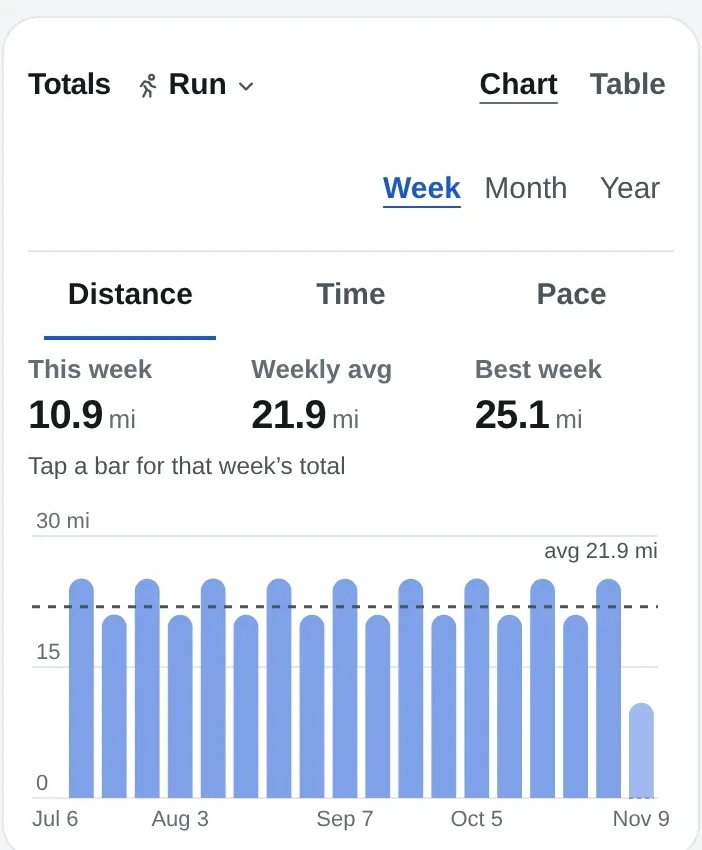
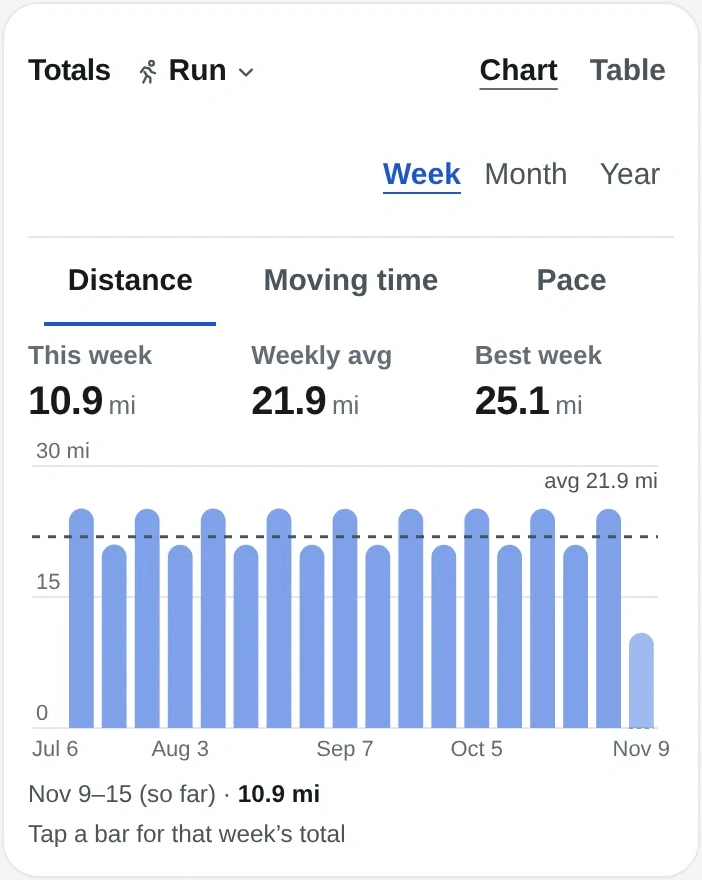
Refresh website Progress crops from the accepted final app capture

diff --git a/site/index.html b/site/index.html
@@ -55,7 +55,7 @@
 <main id="main">
 <section class="tour-hero"><div class="wrap"><span class="eyebrow">One app for your whole training life</span><h1>Track workouts. Log food. See progress.</h1><p class="lede">Log a meal, review a run, or check what you lifted last time. Keep your records together and use the parts that fit your day.</p><a class="btn solid" href="https://login.kinetta.app/signup">Get started</a><div class="tour-access"><a href="https://login.kinetta.app/">Sign in</a><a href="https://testflight.apple.com/join/YAX1JnwB">Install the iPhone beta</a></div><p class="tour-access-note">Account access and iPhone beta installation are separate.</p></div></section>
 <section class="tour-pair"><div class="wrap"><figure><div class="tour-workout"><picture><source srcset="assets/tour/activity-result-dark.png" media="(prefers-color-scheme: dark)"><img src="assets/tour/activity-result-light.png" alt="Fictional Morning Run summary: distance 3.0 miles, elapsed time 25 minutes and pace 8:18 per mile." width="696" height="332"></picture><picture><source srcset="assets/tour/activity-map-dark.png" media="(prefers-color-scheme: dark)"><img src="assets/tour/activity-map-light.png" alt="The same Morning Run route through streets and a park, with OpenStreetMap contributors and Protomaps attribution." width="786" height="786"></picture></div><figcaption><h2>Review a completed workout</h2><p>Review recorded routes, distance, elapsed time and pace.</p><a class="tour-link" href="training">Explore Training →</a></figcaption></figure><figure><div class="tour-image"><picture><source srcset="assets/tour/food-day-dark.webp" media="(prefers-color-scheme: dark)"><img src="assets/tour/food-day-light.webp" alt="Fictional logged food day showing daily totals and a complete Breakfast list of foods and amounts." width="730" height="915" fetchpriority="high"></picture></div><figcaption><h2>Keep a clear food log</h2><p>Review daily totals and every food and amount in Breakfast.</p><a class="tour-link" href="food">Explore Food →</a></figcaption></figure></div></section>
-<section class="tour-band"><div class="wrap tour-split"><div><span class="eyebrow">Then see progress</span><h2>Make the week easy to revisit.</h2><p class="lede">Put weekly running beside recent weeks, then look across months and years.</p><a class="tour-link" href="guide#task-week">Revisit a training week →</a></div><figure><div class="tour-image"><picture><source srcset="assets/tour/progress-week-dark.webp" media="(prefers-color-scheme: dark)"><img src="assets/tour/progress-week-light.webp" alt="Fictional weekly running totals and dated distance history chart, with Week, Month and Year views." width="702" height="850" loading="lazy"></picture></div><figcaption>Weekly running distance, with month and year views.</figcaption></figure></div></section>
+<section class="tour-band"><div class="wrap tour-split"><div><span class="eyebrow">Then see progress</span><h2>Make the week easy to revisit.</h2><p class="lede">Put weekly running beside recent weeks, then look across months and years.</p><a class="tour-link" href="guide#task-week">Revisit a training week →</a></div><figure><div class="tour-image"><picture><source srcset="assets/tour/progress-week-dark.webp" media="(prefers-color-scheme: dark)"><img src="assets/tour/progress-week-light.webp" alt="Fictional weekly running totals and dated distance history chart, with Week, Month and Year views." width="702" height="880" loading="lazy"></picture></div><figcaption>Weekly running distance, with month and year views.</figcaption></figure></div></section>
 <section class="tour-band"><div class="wrap tour-split"><div><span class="eyebrow">Optional sharing</span><h2>Friends, on your terms.</h2><p class="lede">View workouts your friends chose to share. Your own history stays useful on its own.</p><a class="tour-link" href="friends">Explore Friends →</a></div><figure><div class="tour-image"><picture><source srcset="assets/tour/friends-route-dark.webp" media="(prefers-color-scheme: dark)"><img src="assets/tour/friends-route-light.webp" alt="Fictional friend-shared Night Ride with its recorded route and ride details." width="700" height="760" loading="lazy"></picture></div><figcaption>A shared Night Ride includes its route and recorded details.</figcaption></figure></div></section>
 <section class="tour-trust" aria-label="Sharing and service details"><div class="wrap"><ul><li><a href="privacy">Choose who sees your workouts</a></li><li>Export your data.</li><li>No ads.</li></ul></div></section>
 <section class="tour-final"><div class="wrap"><h2>Start with the records that matter to you.</h2><a class="btn solid" href="https://login.kinetta.app/signup">Get started</a></div></section>

diff --git a/site/compare.html b/site/compare.html
@@ -57,7 +57,7 @@
   <section class="tour-features"><div class="wrap"><article class="tour-row"><div><span class="eyebrow">Training</span><h2>Review a completed workout.</h2><p class="lede">See the route, distance, elapsed time and pace recorded with this activity.</p><a class="tour-link" href="training">Explore Training →</a></div><figure><div class="tour-workout"><picture><source srcset="assets/tour/activity-result-dark.png" media="(prefers-color-scheme: dark)"><img src="assets/tour/activity-result-light.png" alt="Fictional Morning Run summary: distance 3.0 miles, elapsed time 25 minutes and pace 8:18 per mile." width="696" height="332"></picture><picture><source srcset="assets/tour/activity-map-dark.png" media="(prefers-color-scheme: dark)"><img src="assets/tour/activity-map-light.png" alt="The same Morning Run route through streets and a park, with OpenStreetMap contributors and Protomaps attribution." width="786" height="786"></picture></div><figcaption>A route belongs to the activity that recorded it.</figcaption></figure></article>
 <article class="tour-row"><div><span class="eyebrow">Lifting</span><h2>Log a set as you go.</h2><p class="lede">Check the previous load and reps, record a set and mark it complete before moving on.</p><a class="tour-link" href="guide#task-lifting">Learn about lifting →</a></div><figure><div class="tour-image"><picture><source srcset="assets/tour/lifting-session-dark.webp" media="(prefers-color-scheme: dark)"><img src="assets/tour/lifting-session-light.webp" alt="Fictional squat session showing previous load and reps beside completed sets, including 205 pounds for five reps." width="698" height="800" loading="lazy"></picture></div><figcaption>Squat · completed sets beside previous load and reps.</figcaption></figure></article>
 <article class="tour-row"><div><span class="eyebrow">Food</span><h2>Keep foods and amounts together.</h2><p class="lede">Read the logged foods in a meal beside your totals for the day.</p><a class="tour-link" href="food">Explore Food →</a></div><figure><div class="tour-image"><picture><source srcset="assets/tour/food-day-dark.webp" media="(prefers-color-scheme: dark)"><img src="assets/tour/food-day-light.webp" alt="Fictional logged food day showing daily totals and a complete Breakfast list of foods and amounts." width="730" height="915" fetchpriority="high"></picture></div><figcaption>Daily totals above an itemized Breakfast.</figcaption></figure></article>
-<article class="tour-row"><div><span class="eyebrow">Progress</span><h2>Revisit recent training.</h2><p class="lede">Compare recorded distance across dated weeks, months and years.</p><a class="tour-link" href="guide#task-week">Explore Progress →</a></div><figure><div class="tour-image"><picture><source srcset="assets/tour/progress-week-dark.webp" media="(prefers-color-scheme: dark)"><img src="assets/tour/progress-week-light.webp" alt="Fictional weekly running totals and dated distance history chart, with Week, Month and Year views." width="702" height="850" loading="lazy"></picture></div><figcaption>Weekly running distance, with month and year views.</figcaption></figure></article>
+<article class="tour-row"><div><span class="eyebrow">Progress</span><h2>Revisit recent training.</h2><p class="lede">Compare recorded distance across dated weeks, months and years.</p><a class="tour-link" href="guide#task-week">Explore Progress →</a></div><figure><div class="tour-image"><picture><source srcset="assets/tour/progress-week-dark.webp" media="(prefers-color-scheme: dark)"><img src="assets/tour/progress-week-light.webp" alt="Fictional weekly running totals and dated distance history chart, with Week, Month and Year views." width="702" height="880" loading="lazy"></picture></div><figcaption>Weekly running distance, with month and year views.</figcaption></figure></article>
 <article class="tour-row"><div><span class="eyebrow">Optional sharing</span><h2>Choose who sees your workouts.</h2><p class="lede">A friend-shared activity can include its route and the details its owner chose to share.</p><a class="tour-link" href="friends">Explore Friends →</a></div><figure><div class="tour-image"><picture><source srcset="assets/tour/friends-route-dark.webp" media="(prefers-color-scheme: dark)"><img src="assets/tour/friends-route-light.webp" alt="Fictional friend-shared Night Ride with its recorded route and ride details." width="700" height="760" loading="lazy"></picture></div><figcaption>A shared Night Ride with its recorded details.</figcaption></figure></article></div></section>
   <section class="band" aria-label="Feature reference"><div class="wrap"><h2>Feature reference</h2></div></section>
   <section class="band" aria-label="Feature by feature">

diff --git a/site/templates/compare.html b/site/templates/compare.html
@@ -57,7 +57,7 @@
   <section class="tour-features"><div class="wrap"><article class="tour-row"><div><span class="eyebrow">Training</span><h2>{{copy:tour-training-heading}}</h2><p class="lede">{{copy:tour-training-description}}</p><a class="tour-link" href="training">Explore Training →</a></div><figure><div class="tour-workout"><picture><source srcset="assets/tour/activity-result-dark.png" media="(prefers-color-scheme: dark)"><img src="assets/tour/activity-result-light.png" alt="Fictional Morning Run summary: distance 3.0 miles, elapsed time 25 minutes and pace 8:18 per mile." width="696" height="332"></picture><picture><source srcset="assets/tour/activity-map-dark.png" media="(prefers-color-scheme: dark)"><img src="assets/tour/activity-map-light.png" alt="The same Morning Run route through streets and a park, with OpenStreetMap contributors and Protomaps attribution." width="786" height="786"></picture></div><figcaption>A route belongs to the activity that recorded it.</figcaption></figure></article>
 <article class="tour-row"><div><span class="eyebrow">Lifting</span><h2>{{copy:tour-lifting-heading}}</h2><p class="lede">{{copy:tour-lifting-description}}</p><a class="tour-link" href="guide#task-lifting">Learn about lifting →</a></div><figure><div class="tour-image"><picture><source srcset="assets/tour/lifting-session-dark.webp" media="(prefers-color-scheme: dark)"><img src="assets/tour/lifting-session-light.webp" alt="Fictional squat session showing previous load and reps beside completed sets, including 205 pounds for five reps." width="698" height="800" loading="lazy"></picture></div><figcaption>Squat · completed sets beside previous load and reps.</figcaption></figure></article>
 <article class="tour-row"><div><span class="eyebrow">Food</span><h2>{{copy:tour-food-heading}}</h2><p class="lede">{{copy:tour-food-description}}</p><a class="tour-link" href="food">Explore Food →</a></div><figure><div class="tour-image"><picture><source srcset="assets/tour/food-day-dark.webp" media="(prefers-color-scheme: dark)"><img src="assets/tour/food-day-light.webp" alt="Fictional logged food day showing daily totals and a complete Breakfast list of foods and amounts." width="730" height="915" fetchpriority="high"></picture></div><figcaption>Daily totals above an itemized Breakfast.</figcaption></figure></article>
-<article class="tour-row"><div><span class="eyebrow">Progress</span><h2>{{copy:tour-progress-heading}}</h2><p class="lede">{{copy:tour-progress-description}}</p><a class="tour-link" href="guide#task-week">Explore Progress →</a></div><figure><div class="tour-image"><picture><source srcset="assets/tour/progress-week-dark.webp" media="(prefers-color-scheme: dark)"><img src="assets/tour/progress-week-light.webp" alt="Fictional weekly running totals and dated distance history chart, with Week, Month and Year views." width="702" height="850" loading="lazy"></picture></div><figcaption>Weekly running distance, with month and year views.</figcaption></figure></article>
+<article class="tour-row"><div><span class="eyebrow">Progress</span><h2>{{copy:tour-progress-heading}}</h2><p class="lede">{{copy:tour-progress-description}}</p><a class="tour-link" href="guide#task-week">Explore Progress →</a></div><figure><div class="tour-image"><picture><source srcset="assets/tour/progress-week-dark.webp" media="(prefers-color-scheme: dark)"><img src="assets/tour/progress-week-light.webp" alt="Fictional weekly running totals and dated distance history chart, with Week, Month and Year views." width="702" height="880" loading="lazy"></picture></div><figcaption>Weekly running distance, with month and year views.</figcaption></figure></article>
 <article class="tour-row"><div><span class="eyebrow">Optional sharing</span><h2>{{copy:tour-sharing-heading}}</h2><p class="lede">{{copy:tour-sharing-description}}</p><a class="tour-link" href="friends">Explore Friends →</a></div><figure><div class="tour-image"><picture><source srcset="assets/tour/friends-route-dark.webp" media="(prefers-color-scheme: dark)"><img src="assets/tour/friends-route-light.webp" alt="Fictional friend-shared Night Ride with its recorded route and ride details." width="700" height="760" loading="lazy"></picture></div><figcaption>A shared Night Ride with its recorded details.</figcaption></figure></article></div></section>
   <section class="band" aria-label="Feature reference"><div class="wrap"><h2>Feature reference</h2></div></section>
   <section class="band" aria-label="Feature by feature">

diff --git a/site/templates/index.html b/site/templates/index.html
@@ -55,7 +55,7 @@
 <main id="main">
 <section class="tour-hero"><div class="wrap"><span class="eyebrow">{{copy:home-hero-kicker}}</span><h1>{{copy:your-workouts-and-your-food-in-one-app-1}}</h1><p class="lede">{{copy:runs-rides-lifting-and-meals-tracked-together-and-kept-2}}</p><a class="btn solid" href="https://login.kinetta.app/signup">Get started</a><div class="tour-access"><a href="https://login.kinetta.app/">Sign in</a><a href="https://testflight.apple.com/join/YAX1JnwB">Install the iPhone beta</a></div><p class="tour-access-note">Account access and iPhone beta installation are separate.</p></div></section>
 <section class="tour-pair"><div class="wrap"><figure><div class="tour-workout"><picture><source srcset="assets/tour/activity-result-dark.png" media="(prefers-color-scheme: dark)"><img src="assets/tour/activity-result-light.png" alt="Fictional Morning Run summary: distance 3.0 miles, elapsed time 25 minutes and pace 8:18 per mile." width="696" height="332"></picture><picture><source srcset="assets/tour/activity-map-dark.png" media="(prefers-color-scheme: dark)"><img src="assets/tour/activity-map-light.png" alt="The same Morning Run route through streets and a park, with OpenStreetMap contributors and Protomaps attribution." width="786" height="786"></picture></div><figcaption><h2>{{copy:home-workout-heading}}</h2><p>{{copy:home-workout-description}}</p><a class="tour-link" href="training">Explore Training →</a></figcaption></figure><figure><div class="tour-image"><picture><source srcset="assets/tour/food-day-dark.webp" media="(prefers-color-scheme: dark)"><img src="assets/tour/food-day-light.webp" alt="Fictional logged food day showing daily totals and a complete Breakfast list of foods and amounts." width="730" height="915" fetchpriority="high"></picture></div><figcaption><h2>{{copy:home-food-heading}}</h2><p>{{copy:home-food-description}}</p><a class="tour-link" href="food">Explore Food →</a></figcaption></figure></div></section>
-<section class="tour-band"><div class="wrap tour-split"><div><span class="eyebrow">Then see progress</span><h2>{{copy:home-progress-heading}}</h2><p class="lede">{{copy:home-progress-description}}</p><a class="tour-link" href="guide#task-week">Revisit a training week →</a></div><figure><div class="tour-image"><picture><source srcset="assets/tour/progress-week-dark.webp" media="(prefers-color-scheme: dark)"><img src="assets/tour/progress-week-light.webp" alt="Fictional weekly running totals and dated distance history chart, with Week, Month and Year views." width="702" height="850" loading="lazy"></picture></div><figcaption>Weekly running distance, with month and year views.</figcaption></figure></div></section>
+<section class="tour-band"><div class="wrap tour-split"><div><span class="eyebrow">Then see progress</span><h2>{{copy:home-progress-heading}}</h2><p class="lede">{{copy:home-progress-description}}</p><a class="tour-link" href="guide#task-week">Revisit a training week →</a></div><figure><div class="tour-image"><picture><source srcset="assets/tour/progress-week-dark.webp" media="(prefers-color-scheme: dark)"><img src="assets/tour/progress-week-light.webp" alt="Fictional weekly running totals and dated distance history chart, with Week, Month and Year views." width="702" height="880" loading="lazy"></picture></div><figcaption>Weekly running distance, with month and year views.</figcaption></figure></div></section>
 <section class="tour-band"><div class="wrap tour-split"><div><span class="eyebrow">Optional sharing</span><h2>{{copy:home-friends-heading}}</h2><p class="lede">{{copy:home-friends-description}}</p><a class="tour-link" href="friends">Explore Friends →</a></div><figure><div class="tour-image"><picture><source srcset="assets/tour/friends-route-dark.webp" media="(prefers-color-scheme: dark)"><img src="assets/tour/friends-route-light.webp" alt="Fictional friend-shared Night Ride with its recorded route and ride details." width="700" height="760" loading="lazy"></picture></div><figcaption>A shared Night Ride includes its route and recorded details.</figcaption></figure></div></section>
 <section class="tour-trust" aria-label="Sharing and service details"><div class="wrap"><ul><li>{{copy:home-trust-share}}</li><li>{{copy:home-trust-export}}</li><li>{{copy:home-trust-ads}}</li></ul></div></section>
 <section class="tour-final"><div class="wrap"><h2>{{copy:home-final-heading}}</h2><a class="btn solid" href="https://login.kinetta.app/signup">Get started</a></div></section>
